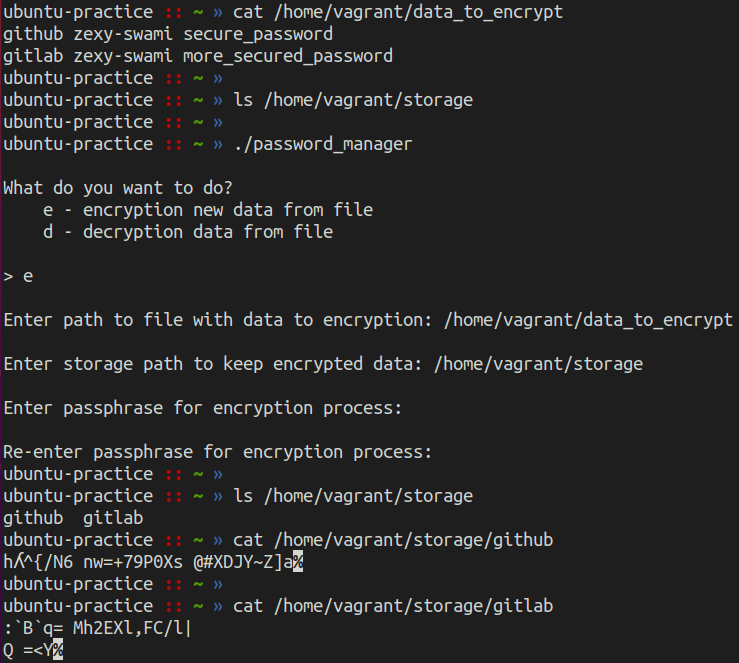
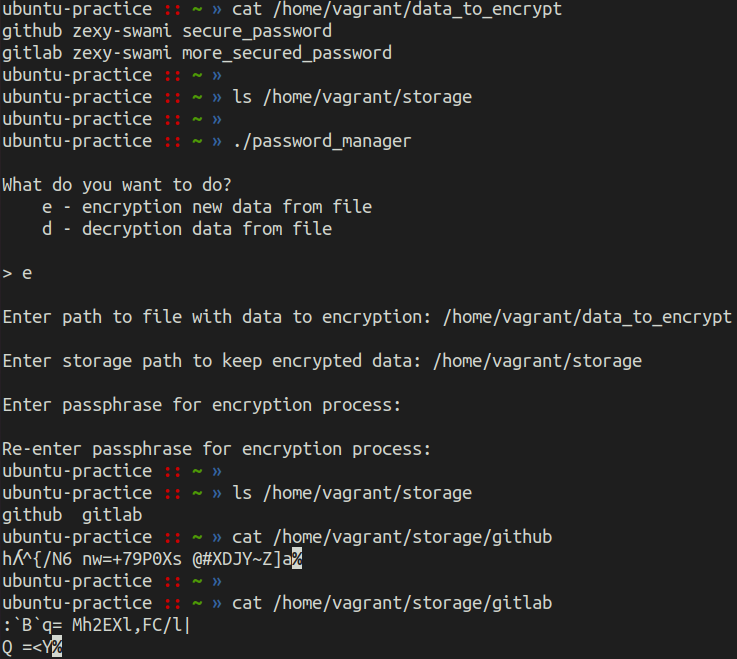
Small image formatting

diff --git a/README.md b/README.md
@@ -23,7 +23,7 @@ Examples:<br>
 ## Encryption examples
 ### Linux (Ubuntu 20.04)
 <p align="center">
-  <img width="739" height="663" src="https://github.com/zexy-swami/password_manager/blob/main/images/encryption_linux.png">
+  <img width="737" height="659" src="https://github.com/zexy-swami/password_manager/blob/main/images/encryption_linux.png">
 </p>
 
 ### Windows
